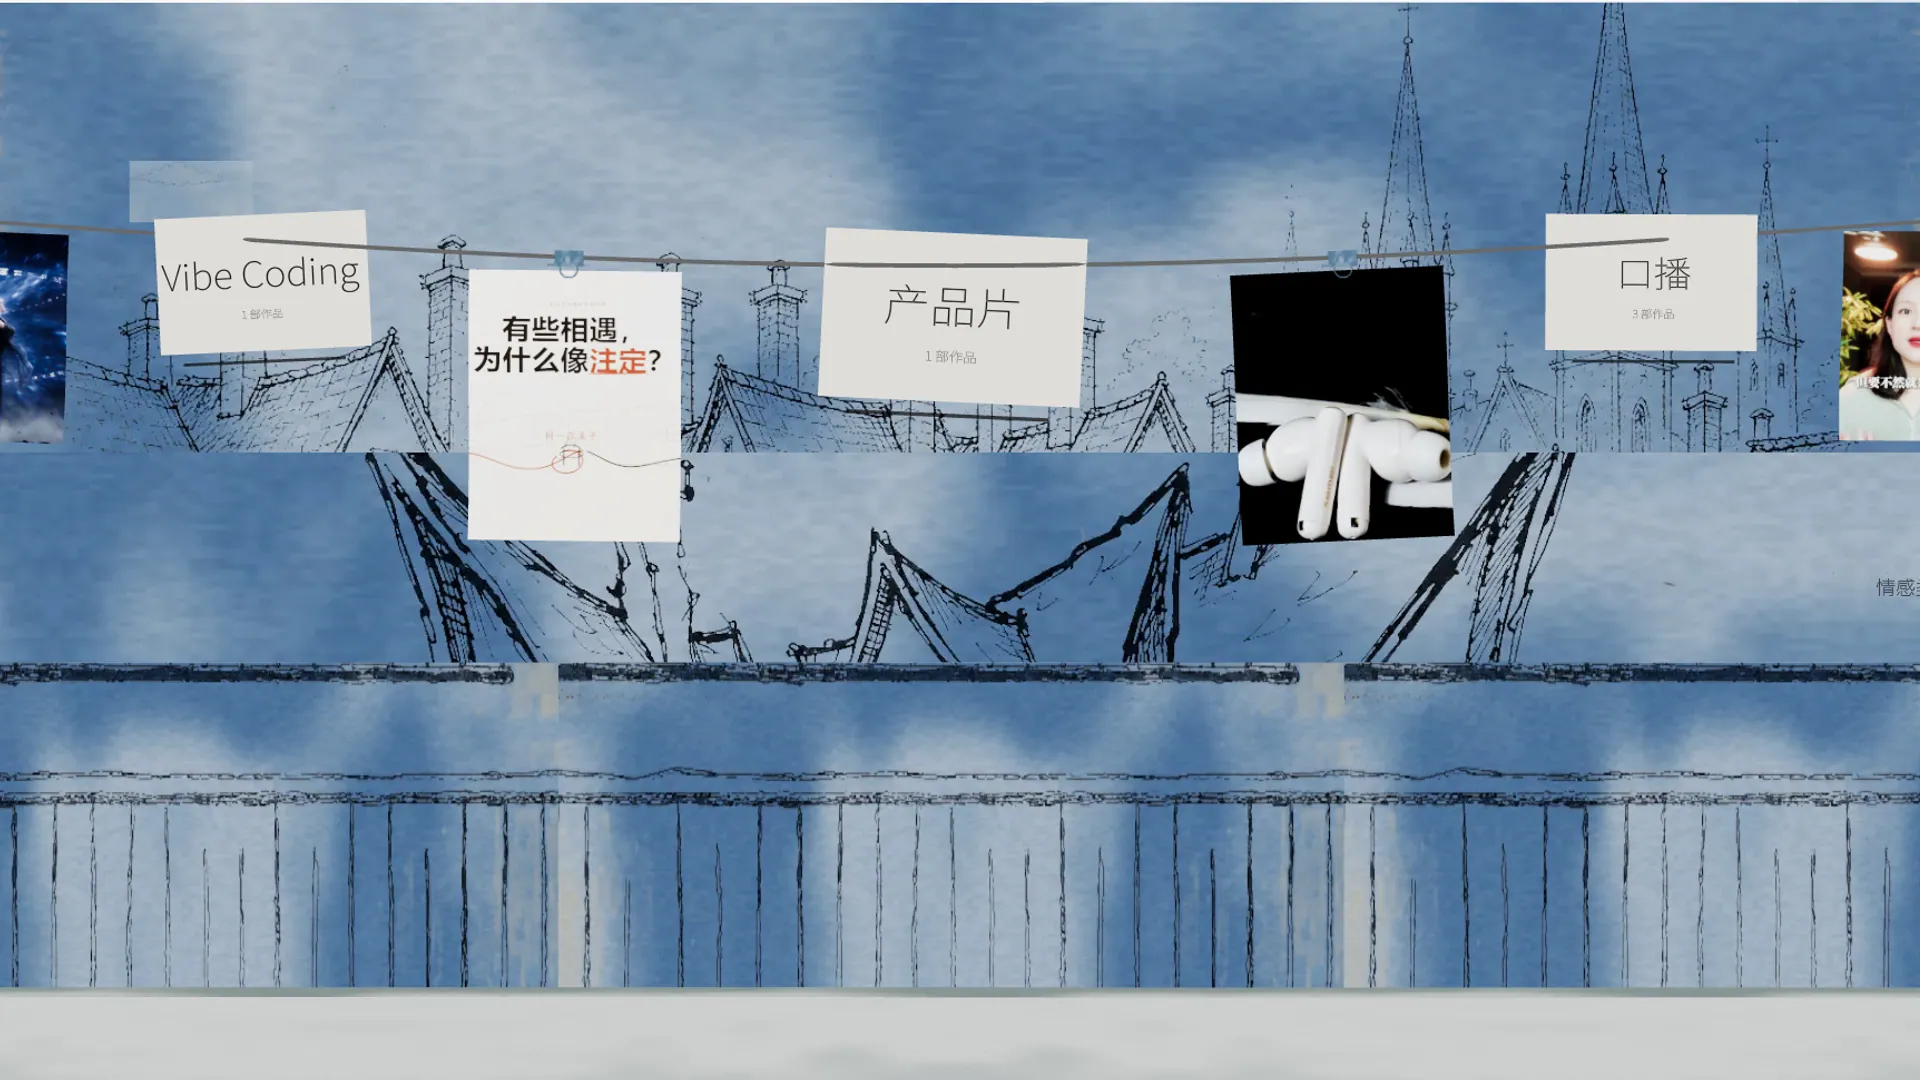
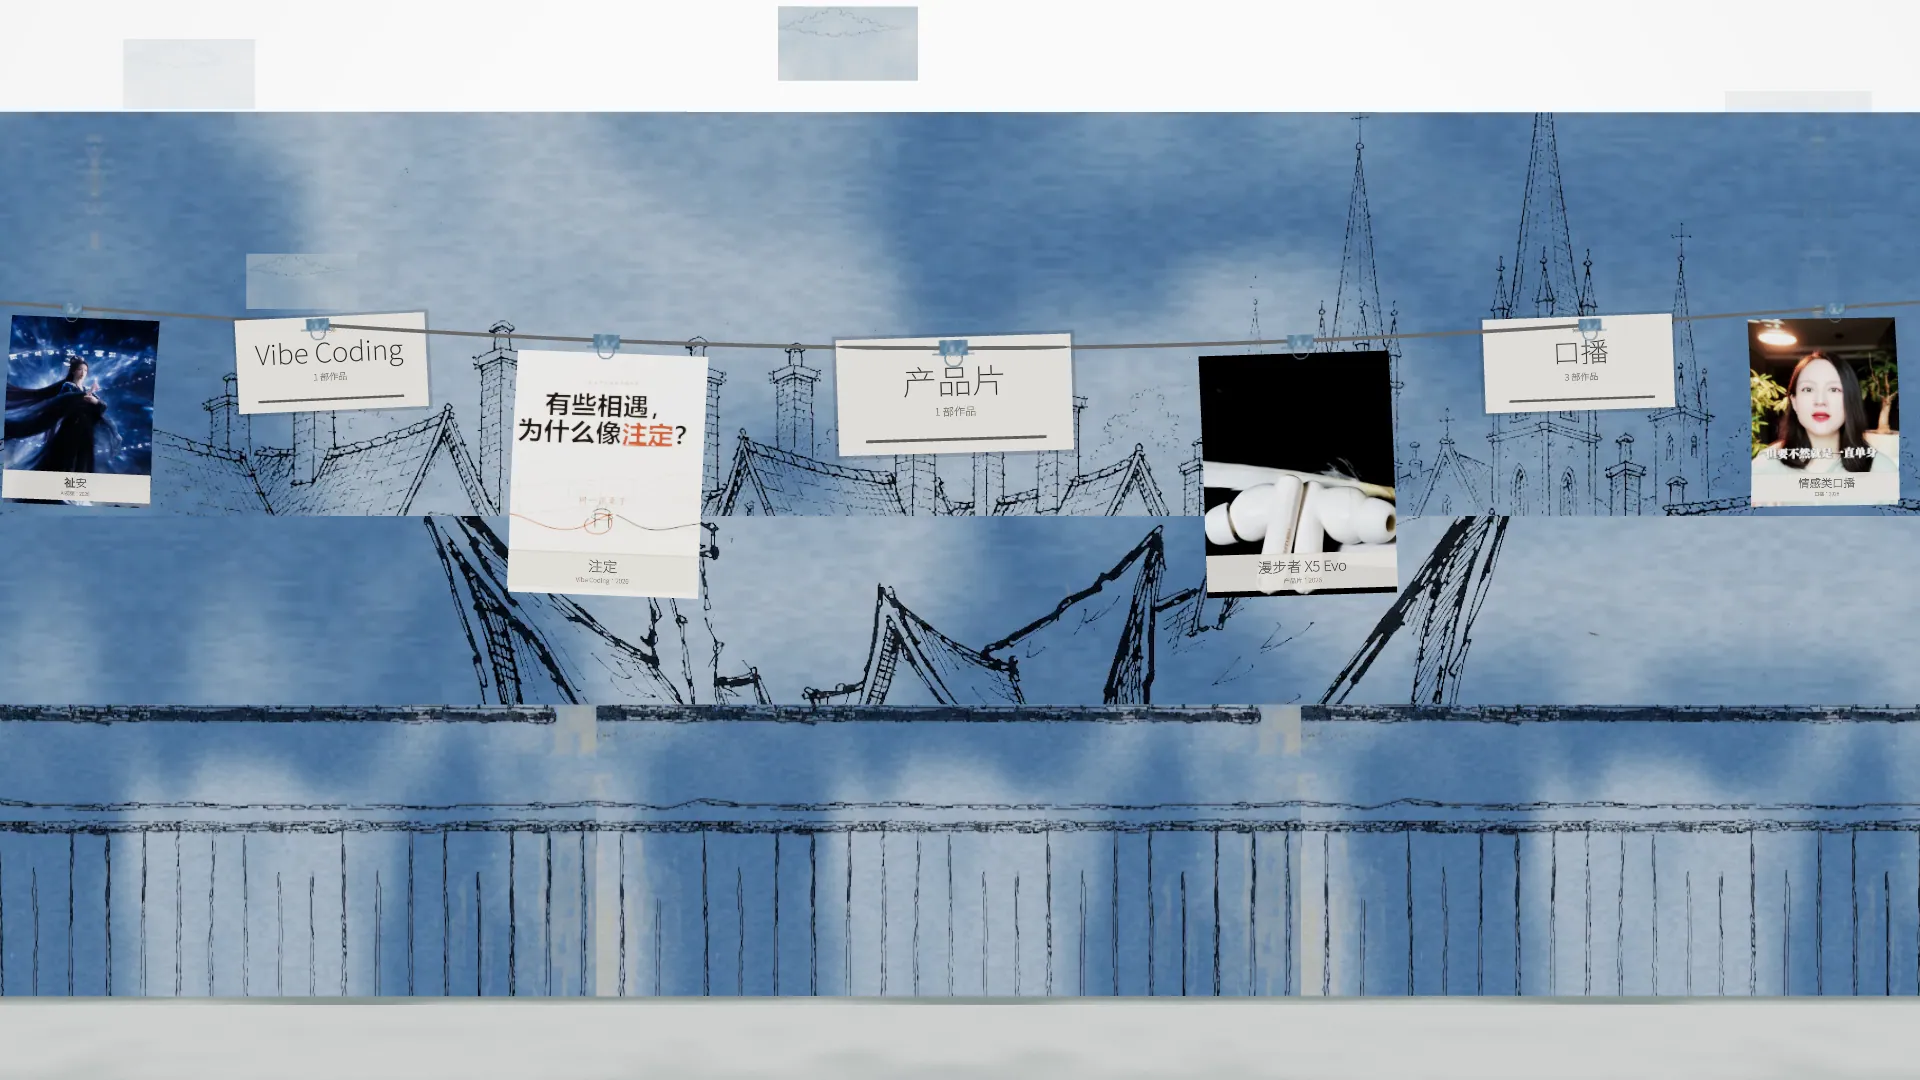
feat: 画廊卡片纸签、分类标牌与背面便签

diff --git a/src/components/canvas/rooms/Gallery/GalleryRoom.jsx b/src/components/canvas/rooms/Gallery/GalleryRoom.jsx
@@ -724,6 +724,7 @@ const ProjectCard = memo(forwardRef(({ index, project, clothespinTexture, curren
     const paperRef = useRef(); // Ref for the moving part (Paper)
     const materialRef = useRef();
     const textRef = useRef(); // Ref for the text that sticks to the paper
+    const labelMetaTextRef = useRef(); // 卡片下方纸签的“分类 · 年份”
     const buttonGroupRef = useRef(); // Ref for the interactive back button
     const detailsGroupRef = useRef(); // Ref for the project details on the back
     const techStackGroupRef = useRef(); // Ref for the tech stack section on the back
@@ -731,6 +732,8 @@ const ProjectCard = memo(forwardRef(({ index, project, clothespinTexture, curren
     const detailsTextRef2 = useRef();
     const metaTextRefs = useRef([]);
     const techTextRef = useRef();
+    const noteTextRef = useRef();
+    const noteMetaRef = useRef();
     const openTextRef = useRef();
 
     /* 2026-10-13：卡片背面整齐字段——片长由秒数格式化为 m:ss（不再从描述句里断行） */
@@ -1080,10 +1083,13 @@ const ProjectCard = memo(forwardRef(({ index, project, clothespinTexture, curren
                 }
             };
             applyOpacity(textRef);
+            applyOpacity(labelMetaTextRef);
             applyOpacity(detailsTextRef1);
             applyOpacity(detailsTextRef2);
             metaTextRefs.current.forEach(applyOpacity);
             applyOpacity(techTextRef);
+            applyOpacity(noteTextRef);
+            applyOpacity(noteMetaRef);
             applyOpacity(openTextRef);
         }
 
@@ -1197,15 +1203,37 @@ const ProjectCard = memo(forwardRef(({ index, project, clothespinTexture, curren
     if (project.isDivider) {
         return (
             <group ref={cardRef}>
-                {/* 竖立展板（世界纸色；手绘贴图阶段 4 补） */}
+                {/* 分类标签：横向纸牌 + 木夹 + 栏目小字，避免被误读成作品卡 */}
+                <mesh position={[0, -0.07, 0.15]} rotation={[0, 0, Math.PI]}>
+                    <planeGeometry args={[0.3, 0.2]} />
+                    <meshBasicMaterial color="#ffffff"
+                        map={clothespinTexture}
+                        transparent={true}
+                        alphaTest={0.1}
+                        side={THREE.DoubleSide}
+                    />
+                </mesh>
+                <mesh position={[0, -0.35, -0.03]}>
+                    <planeGeometry args={[1.76, 0.94]} />
+                    <meshBasicMaterial color="#1a1a1a" transparent opacity={0.16} />
+                </mesh>
                 <mesh position={[0, -0.35, -0.02]}>
-                    <planeGeometry args={[1.7, 1.15]} />
+                    <planeGeometry args={[1.7, 0.88]} />
                     <meshBasicMaterial color="#f5efe0" transparent={true} />
                 </mesh>
-                {/* 类名（中文 · Noto Sans SC——沿用门牌语言） */}
                 <GalleryText
-                    position={[0, -0.28, 0.01]}
-                    fontSize={0.3}
+                    position={[0, -0.04, 0.01]}
+                    fontSize={0.065}
+                    color="#8a7a5e"
+                    font="/fonts/NotoSansSC.ttf"
+                    anchorX="center"
+                    anchorY="middle"
+                >
+                    分 类
+                </GalleryText>
+                <GalleryText
+                    position={[0, -0.25, 0.01]}
+                    fontSize={0.25}
                     color="#1a1a1a"
                     font="/fonts/NotoSansSC.ttf"
                     anchorX="center"
@@ -1213,21 +1241,19 @@ const ProjectCard = memo(forwardRef(({ index, project, clothespinTexture, curren
                 >
                     {project.dividerLabel}
                 </GalleryText>
-                {/* 数量副标 */}
                 <GalleryText
-                    position={[0, -0.62, 0.01]}
-                    fontSize={0.09}
-                    color="#666666"
+                    position={[0, -0.48, 0.01]}
+                    fontSize={0.08}
+                    color="#4d4a43"
                     font="/fonts/NotoSansSC.ttf"
                     anchorX="center"
                     anchorY="middle"
                 >
                     {`${project.dividerCount || 0} 部作品`}
                 </GalleryText>
-                {/* 地标线 */}
-                <mesh position={[0, -1.02, 0.01]}>
-                    <planeGeometry args={[1.3, 0.025]} />
-                    <meshBasicMaterial color="#1a1a1a" transparent={true} opacity={0.7} />
+                <mesh position={[0, -0.69, 0.01]}>
+                    <planeGeometry args={[1.3, 0.022]} />
+                    <meshBasicMaterial color="#1a1a1a" transparent={true} opacity={0.6} />
                 </mesh>
             </group>
         );
@@ -1431,48 +1457,99 @@ const ProjectCard = memo(forwardRef(({ index, project, clothespinTexture, curren
                 >
                     {/* 1d：TECH STACK 标题移除——视频项目无技术栈（logo 组保留结构，techStack 空则不渲染） */}
 
-                    {/* 横向排列 logo 的容器 */}
-                    <group position={[0, -0.05, 0.01]}>
-                        {project.techStack && project.techStack.map((logoPath, idx) => {
-                            // 排列小方块（4 个居中）
-                            const spacing = 0.30;
-                            const startX = -((project.techStack.length - 1) * spacing) / 2;
-                            const xPos = startX + (idx * spacing);
-
-                            return (
-                                <TechStackLogo key={idx} path={logoPath} position={[xPos, 0, 0]} />
-                            );
-                        })}
-                    </group>
+                    {project.techStack && project.techStack.length > 0 ? (
+                        /* 有技术栈时保留原有 logo 排布 */
+                        <group position={[0, -0.05, 0.01]}>
+                            {project.techStack.map((logoPath, idx) => {
+                                const spacing = 0.30;
+                                const startX = -((project.techStack.length - 1) * spacing) / 2;
+                                const xPos = startX + (idx * spacing);
+                                return (
+                                    <TechStackLogo key={idx} path={logoPath} position={[xPos, 0, 0]} />
+                                );
+                            })}
+                        </group>
+                    ) : (
+                        /* 没有技术栈时，用一张项目便签填满四个空框，避免背面像未完成 */
+                        <group position={[0, -0.02, 0.005]}>
+                            <mesh>
+                                <planeGeometry args={[1.32, 0.44]} />
+                                <meshBasicMaterial color="#f7f0e1" transparent opacity={0.96} />
+                            </mesh>
+                            <mesh position={[0, 0.2, 0.002]}>
+                                <planeGeometry args={[0.3, 0.055]} />
+                                <meshBasicMaterial color="#e4d8bf" transparent opacity={0.85} />
+                            </mesh>
+                            <GalleryText
+                                ref={noteTextRef}
+                                position={[0, 0.02, 0.004]}
+                                fontSize={0.057}
+                                color="#4c4438"
+                                font="/fonts/NotoSansSC.ttf"
+                                anchorX="center"
+                                anchorY="middle"
+                                maxWidth={1.18}
+                                fillOpacity={0}
+                            >
+                                {project.description}
+                            </GalleryText>
+                            <GalleryText
+                                ref={noteMetaRef}
+                                position={[0, -0.17, 0.004]}
+                                fontSize={0.045}
+                                color="#7b705f"
+                                font="/fonts/NotoSansSC.ttf"
+                                anchorX="center"
+                                anchorY="middle"
+                                maxWidth={1.2}
+                                fillOpacity={0}
+                            >
+                                {[project.role?.join(' · '), project.year].filter(Boolean).join('   /   ')}
+                            </GalleryText>
+                        </group>
+                    )}
                 </group>
                 </>
                 )}
 
-                {/*
-                  === 文字 / 项目标题 ===
-                  这里可方便地调节每段文字的外观。
+                {/* 卡片内底部纸签：裁成照片下缘的说明条，保证每张卡都看得到标题 */}
+                <group visible={!isSelected && !isAnimating}>
+                    <mesh position={[0, -0.8, 0.012]}>
+                        <planeGeometry args={[1.5, 0.3]} />
+                        <meshBasicMaterial color="#f5eedf" transparent opacity={0.94} />
+                    </mesh>
+                    <mesh position={[0, -0.655, 0.016]}>
+                        <planeGeometry args={[1.5, 0.012]} />
+                        <meshBasicMaterial color="#d8ccb6" transparent opacity={0.7} />
+                    </mesh>
 
-                  position: [X, Y, Z]
-                  > X = 左右（0 = 中心）
-                  > Y = 上下（如 0.75 是卡片顶部，-0.75 底部）
-                  > Z 不要动——上面的脚本会自动计算，让文字跟随卡片波浪弯曲贴合！
-
-                  fontSize：字号（默认 0.15）
-                  color：文字颜色
-                  font：可换成 /public/fonts/ 里的其他字体
-                */}
-                <GalleryText
-                    ref={textRef}
-                    position={[0, -2.4, 0]} // 1d（用户定调 2026-10-12）：标题移到卡片正下方——绳在上、卡在中、标签在下，不越晾衣绳
-                    fontSize={0.18}
-                    color="#1c1c1c"
-                    font="/fonts/NotoSansSC.ttf"
-                    anchorX="center"
-                    anchorY="middle"
-                    fillOpacity={0} // Start hidden
-                >
-                    {project.title}
-                </GalleryText>
+                    <GalleryText
+                        ref={textRef}
+                        position={[0, -0.76, 0.022]}
+                        fontSize={0.115}
+                        color="#1c1c1c"
+                        font="/fonts/NotoSansSC.ttf"
+                        anchorX="center"
+                        anchorY="middle"
+                        maxWidth={1.38}
+                        fillOpacity={0}
+                    >
+                        {project.title}
+                    </GalleryText>
+                    <GalleryText
+                        ref={labelMetaTextRef}
+                        position={[0, -0.875, 0.022]}
+                        fontSize={0.05}
+                        color="#6b6254"
+                        font="/fonts/NotoSansSC.ttf"
+                        anchorX="center"
+                        anchorY="middle"
+                        maxWidth={1.4}
+                        fillOpacity={0}
+                    >
+                        {`${project.category} · ${project.year}`}
+                    </GalleryText>
+                </group>
 
             </group>
         </group>

diff --git a/src/styles/RoomEntryPoster.scss b/src/styles/RoomEntryPoster.scss
@@ -25,4 +25,14 @@
         object-fit: cover;
         object-position: center;
     }
+
+    &::after {
+        content: '';
+        position: absolute;
+        inset: 0;
+        background: url('/textures/paper-texture.webp') center / cover;
+        opacity: 0.07;
+        mix-blend-mode: multiply;
+        pointer-events: none;
+    }
 }
